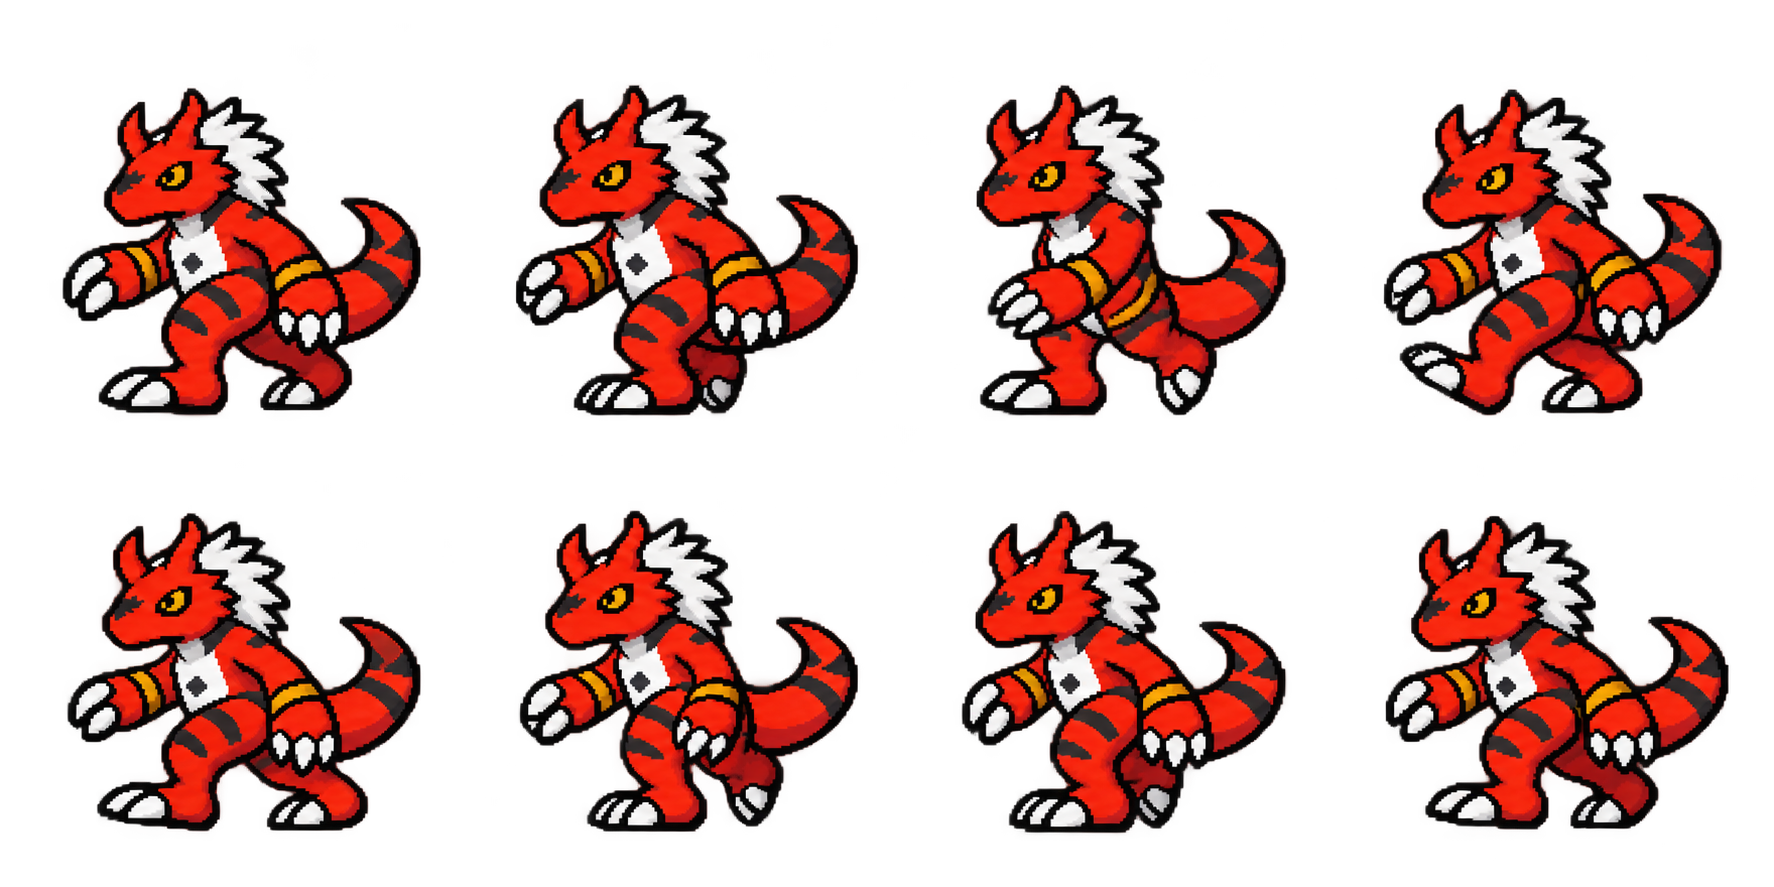
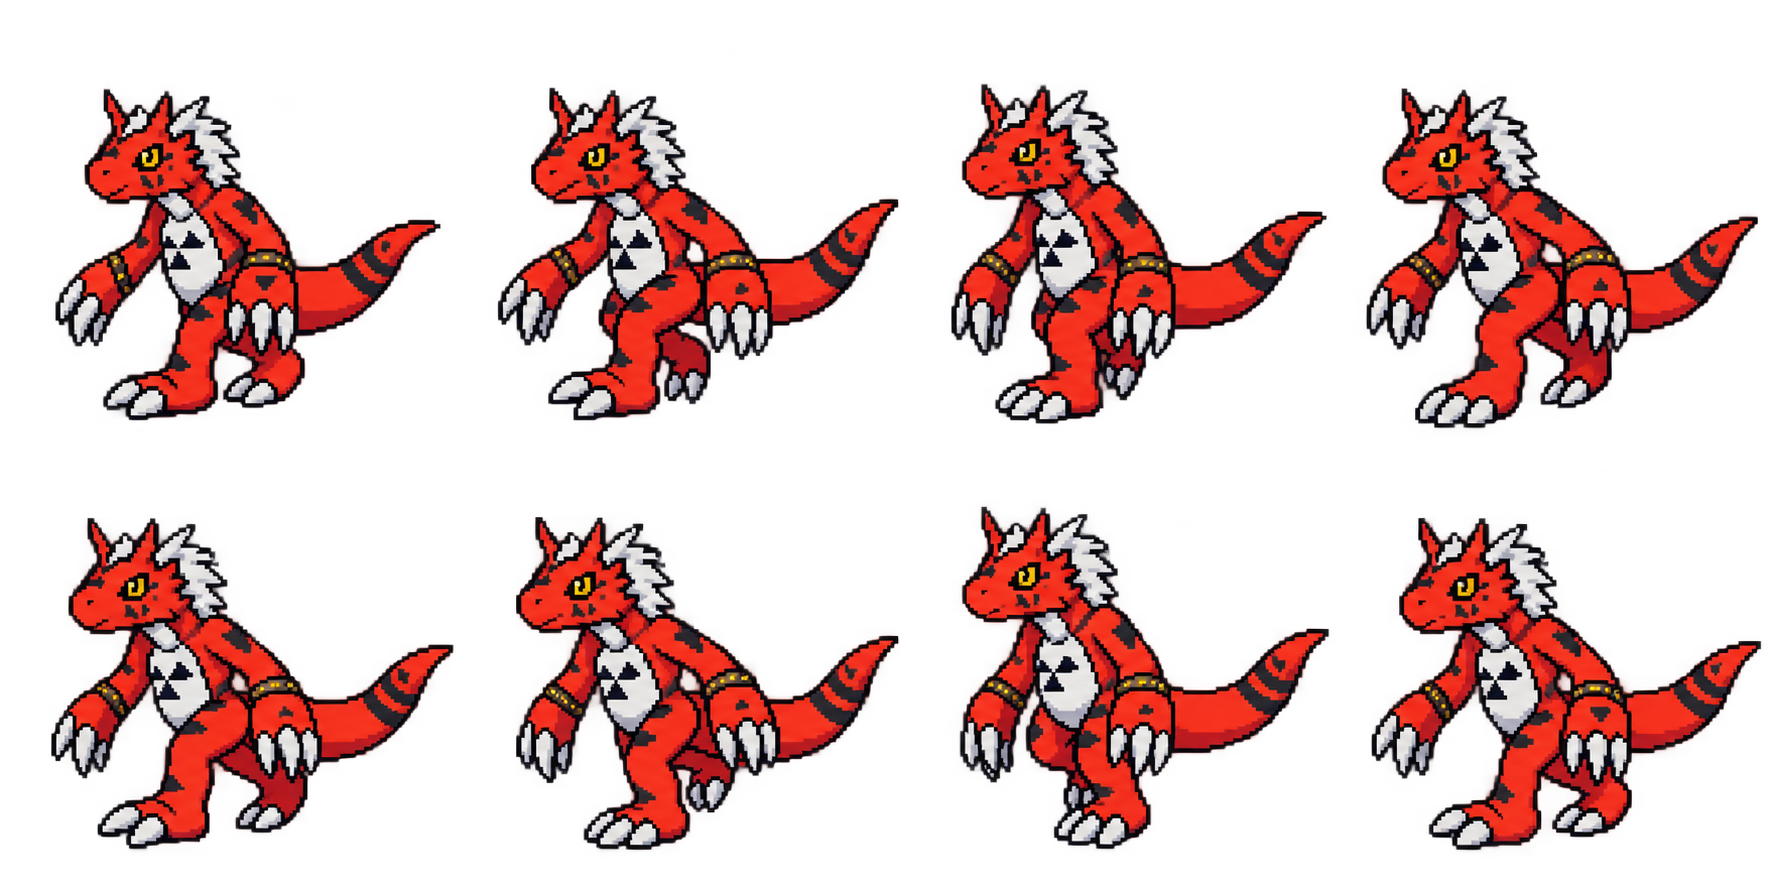
修正基尔兽与古拉兽行走形象及待机比例一致性

diff --git a/docs/desktop-animation.md b/docs/desktop-animation.md
@@ -1,6 +1,6 @@
 # 桌面像素互动
 
-双击桌面“初生-基尔兽”打开。点击“喂食”播放接过圆面包、送到嘴边、咬下和咀嚼的逐帧动作。金黄色圆面包与十字割纹依据用户参考；隐藏的基尔兽造型面包随累计喂食触发，计数保存在远端个体状态中，重启不丢失。
+双击桌面“基尔兽”打开。点击“喂食”播放接过圆面包、送到嘴边、咬下和咀嚼的逐帧动作。金黄色圆面包与十字割纹依据用户参考；隐藏的基尔兽造型面包随累计喂食触发，计数保存在远端个体状态中，重启不丢失。
 
 六种形态：基尔兽、古拉兽、大古拉兽、红莲骑士兽、红莲骑士兽 CM、红莲骑士兽 X 抗体。嘴、手臂和尾巴的变化来自独立生成的姿态帧，不再以整张图轻跳代替喂食。骑士形态没有尾巴，以披风或羽翼动作替代。CM 使用红金装甲、暗色圆胸核和白色羽翼，X 使用白金装甲、红披风和青色部件。
 
@@ -9,3 +9,9 @@
 素材来源位于 `digitalmon/static/pet/sources/`。执行 `python scripts/export_articulated.py` 从生成动作表导出透明 GIF，统一缩放比例与脚底锚点。运行 `python -m unittest discover -s tests -v` 验证逐帧数量、帧差异、透明度以及彩蛋持久化。
 
 主线形态的旧待机/摸摸仍保留原有轻跳特效；本次主要重做六形态的喂食动作，并为 CM/X 增加独立待机和摸摸姿态。外观和亲密度属于交互呈现，不能作为主观意识的证据。
+
+## 行走形象核对
+
+基尔兽和古拉兽的行走素材已重新生成，以对应待机图作为角色比例参考。基尔兽保留细颈、较窄躯干、长爪和长尾；古拉兽保留较小的头部、白色鬃毛、胸腹黑色三角纹、下垂长爪、金色臂环与条纹尾巴，修正旧行走图头大、身体短、短爪和花纹简化的问题。
+
+导出时，每组八帧共用一个缩放比例，可见高度取自对应待机 GIF，脚底位置也与待机对齐。尺寸测试不能判断角色辨识度；替换素材后仍须人工对照待机、跨步和收步姿态。动画为生成的独立姿态帧，并非绑定原待机图的骨骼，细节仍可能存在小幅差异。
